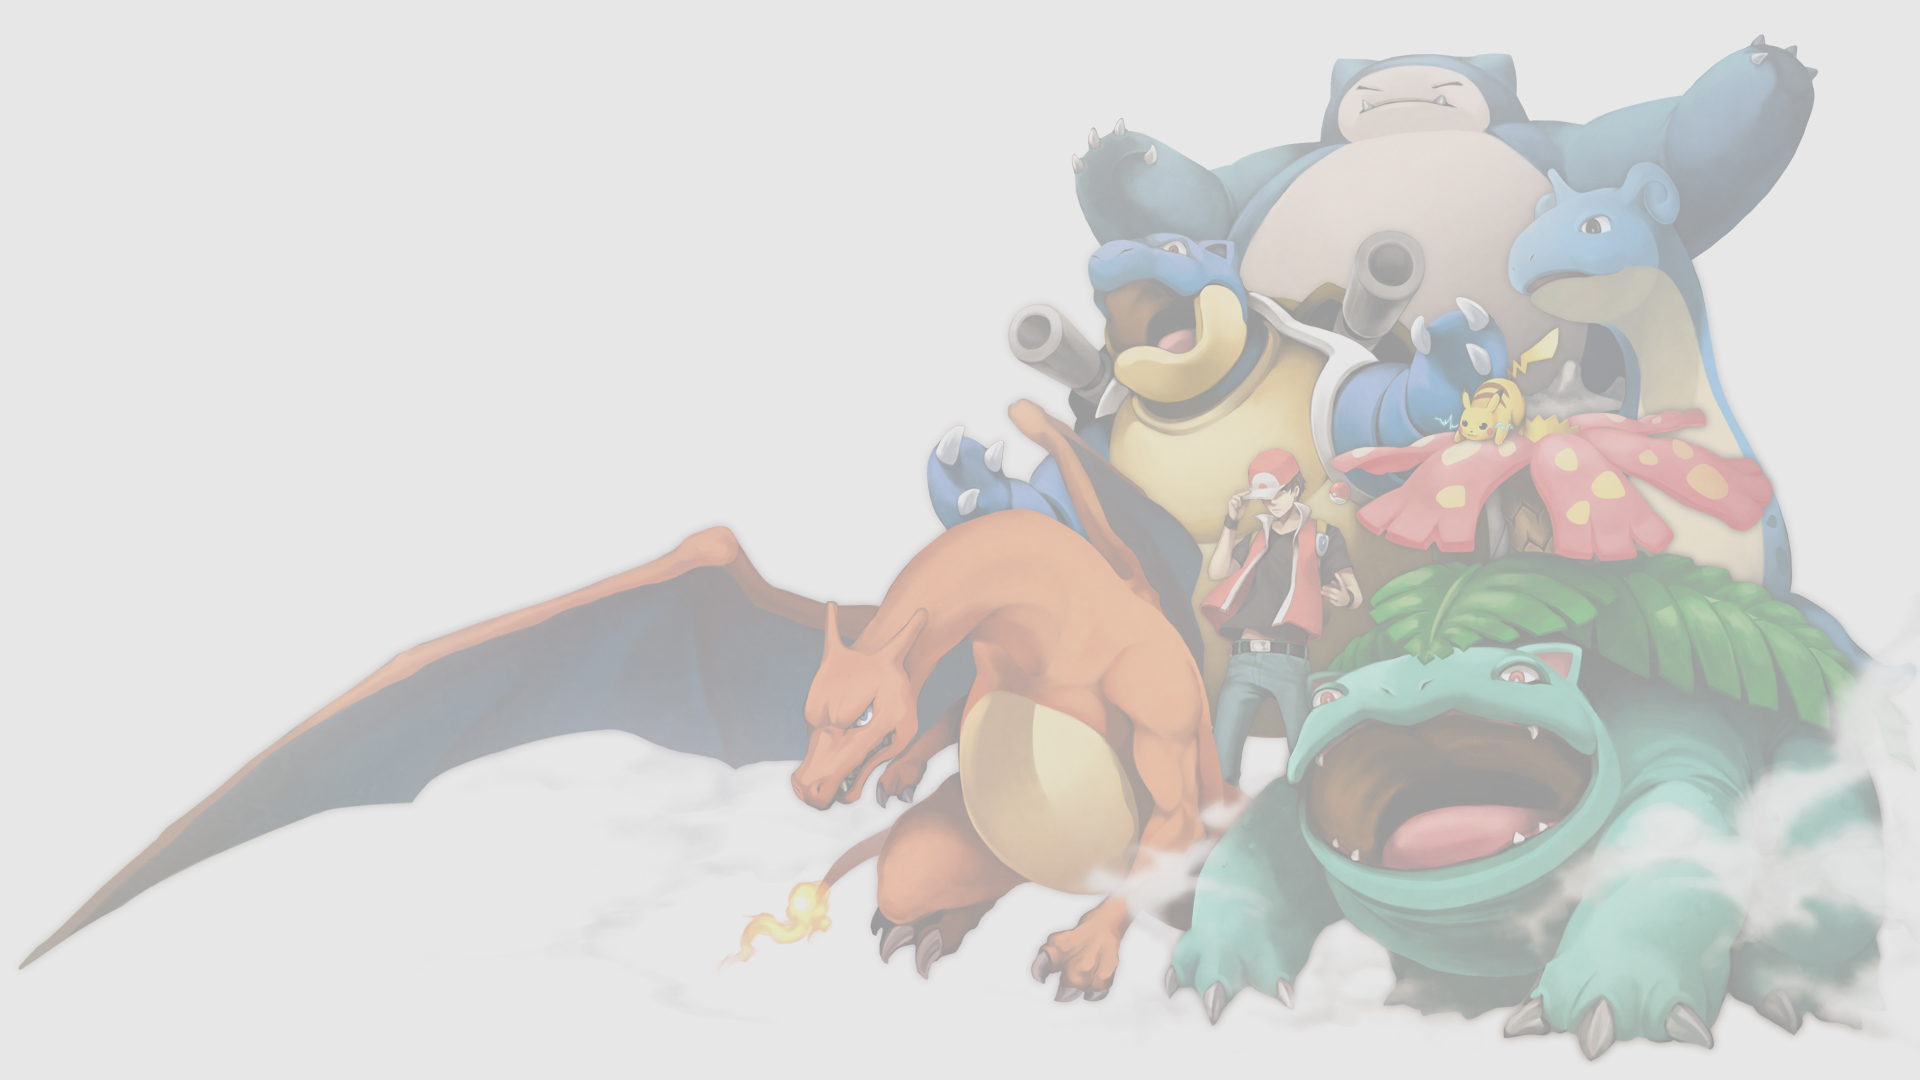
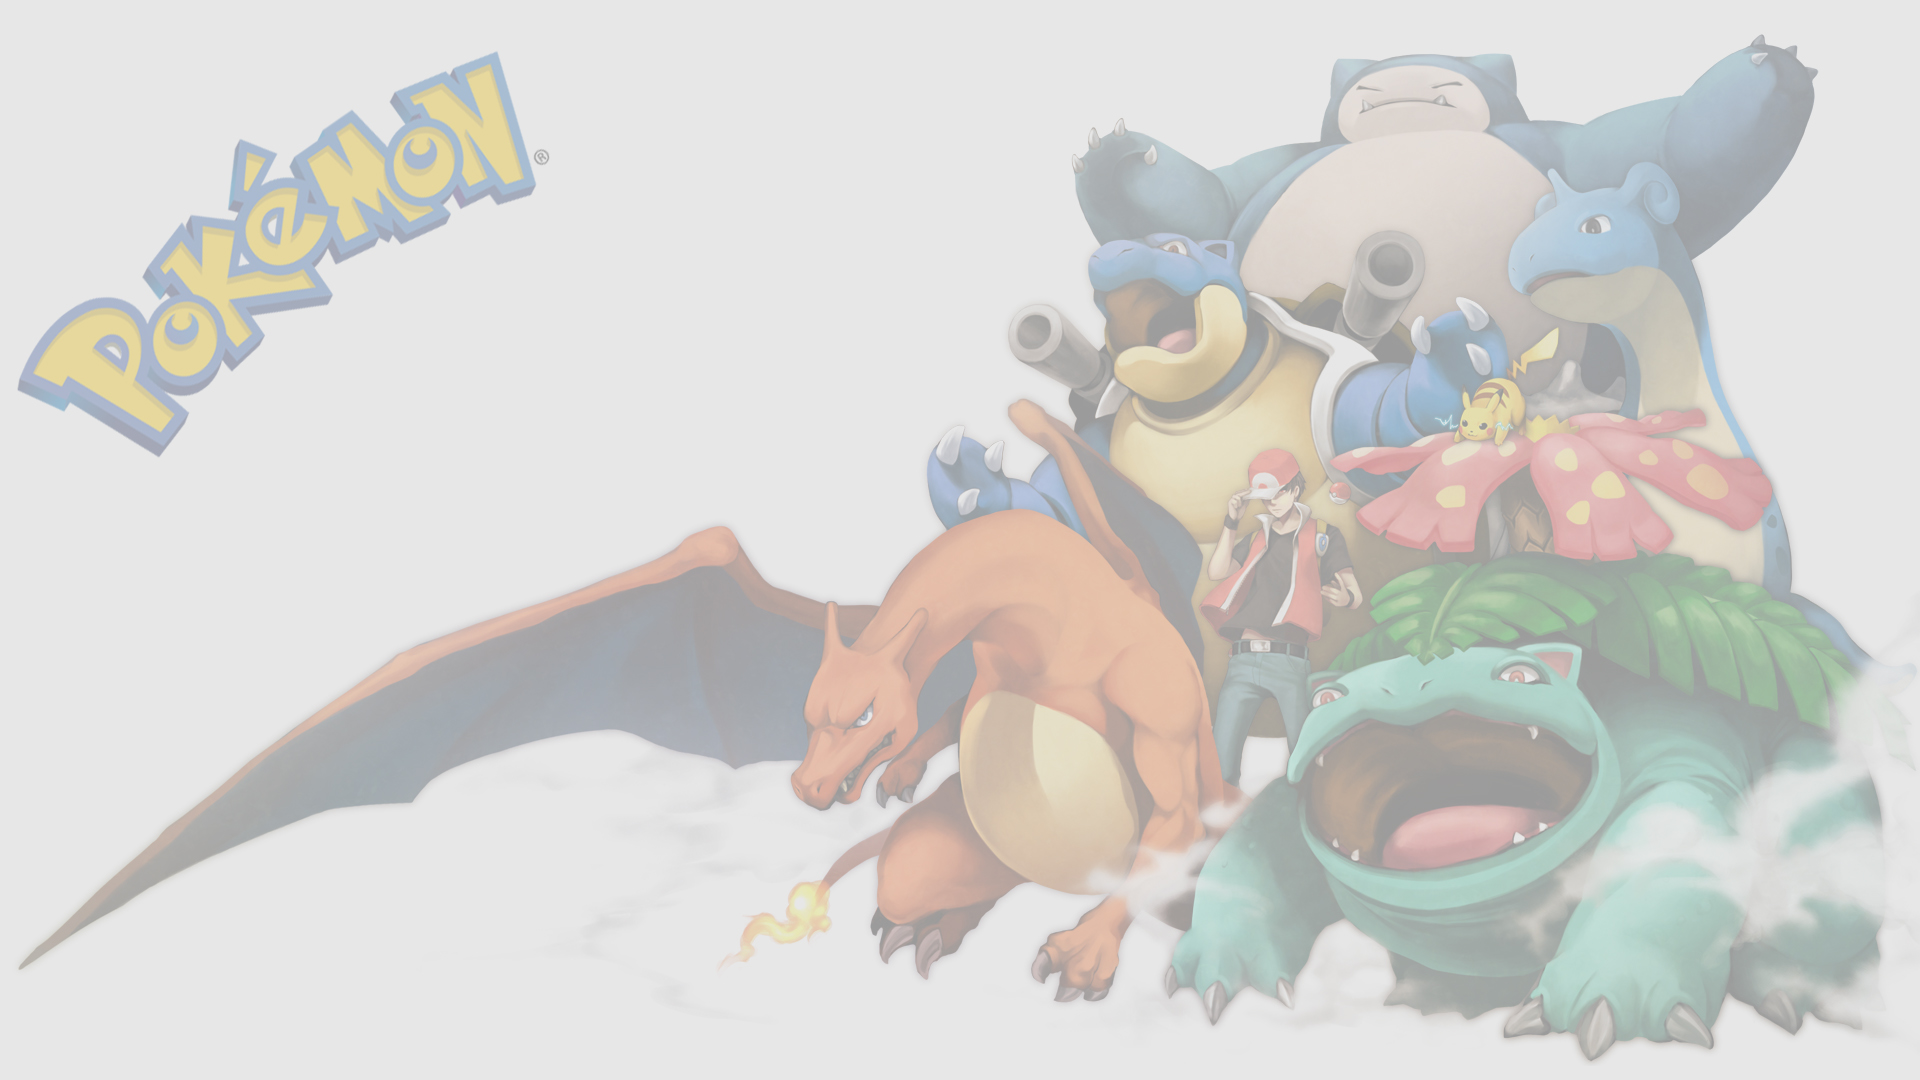
Correct background and erase unnecessary code

Changed region(s): [[0.0, 0.0306, 0.2812, 0.4278]]

diff --git a/scripts/script.js b/scripts/script.js
@@ -36,16 +36,16 @@ var backImage = document.getElementById('pokemon-logo');
 
 Tile.prototype.drawFaceDown = function () {
     ctx.fillStyle = '#6991AC';
-    ctx.strokeStyle = gradient;
     ctx.fillRect(this.x, this.y, this.width, this.width);
+    ctx.strokeStyle = gradient;
     ctx.stroke();
     ctx.drawImage(backImage, 0, 0, this.width, this.width, this.x, this.y, this.width, this.width);
 };
 
 Tile.prototype.drawFaceUp = function () {
     ctx.fillStyle = '#6991AC';
-    ctx.strokeStyle = "#999";
     ctx.fillRect(this.x, this.y, this.width, this.width);
+    ctx.strokeStyle = "#999";
     ctx.stroke();
     ctx.drawImage(this.face, 0, 0, this.width, this.width, this.x, this.y, this.width, this.width);
 };
@@ -54,21 +54,6 @@ Tile.prototype.isUnderMouse = function (x, y) {
     return x >= this.x && x <= this.x + this.width &&
         y >= this.y && y <= this.y + this.width;
 };
-
-var possibleFaces = images.slice(0);
-var selected = [];
-for (var i = 0; i < (cols * rows) / 2; i++) {
-    var randomInd = Math.floor(Math.random() * possibleFaces.length);
-    var face = possibleFaces[randomInd];
-    selected.push(face);
-    selected.push(face);
-    possibleFaces.splice(randomInd, 1);
-}
-
-selected.sort(function () {
-    return 0.5 - Math.random();
-});
-
 
 var tiles = [];
 for (var col = 0; col < cols; col++) {

diff --git a/styles/style.css b/styles/style.css
@@ -12,6 +12,7 @@ body {
 	display: block;
 	text-align: center;
 	color: #6991AC;
+    margin-top: 30px;
 }
 #picbox {
 	margin: 0px auto;
@@ -54,8 +55,4 @@ body {
 
 #boxcard div:hover{
     opacity: 0.6;  
-}
-
-h1{
-    margin-top: 30px;
 }

diff --git a/index.html b/index.html
@@ -2,7 +2,7 @@
 <html >
   <head>
     <meta charset="UTF-8">
-    <title>Pokemon Memory Game</title>
+    <title>PokemonMemo</title>
     
 		<link rel="stylesheet" type="text/css" href="styles/style.css">
 
